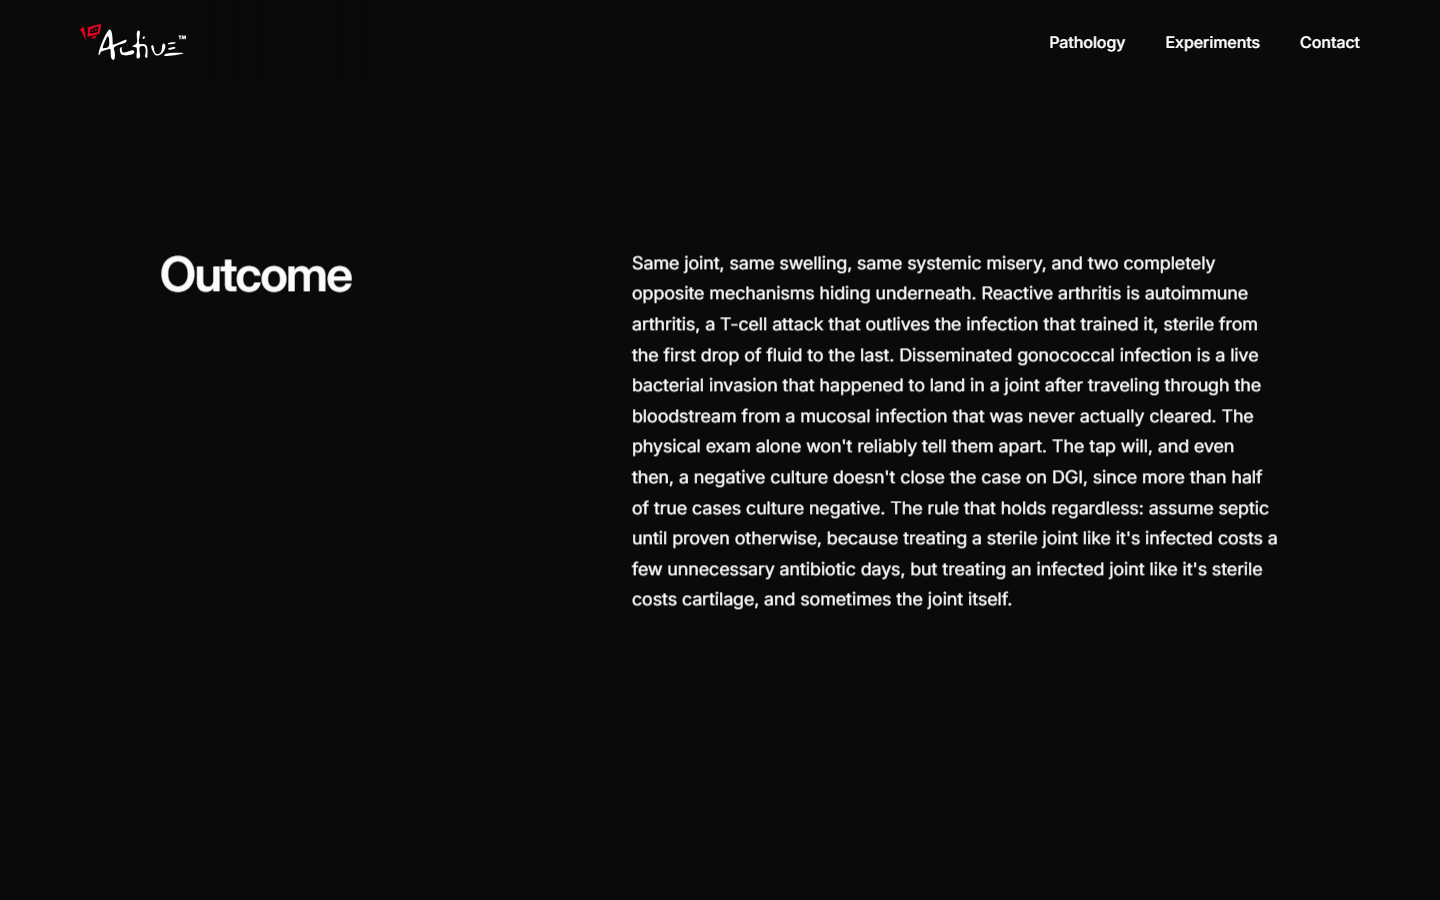
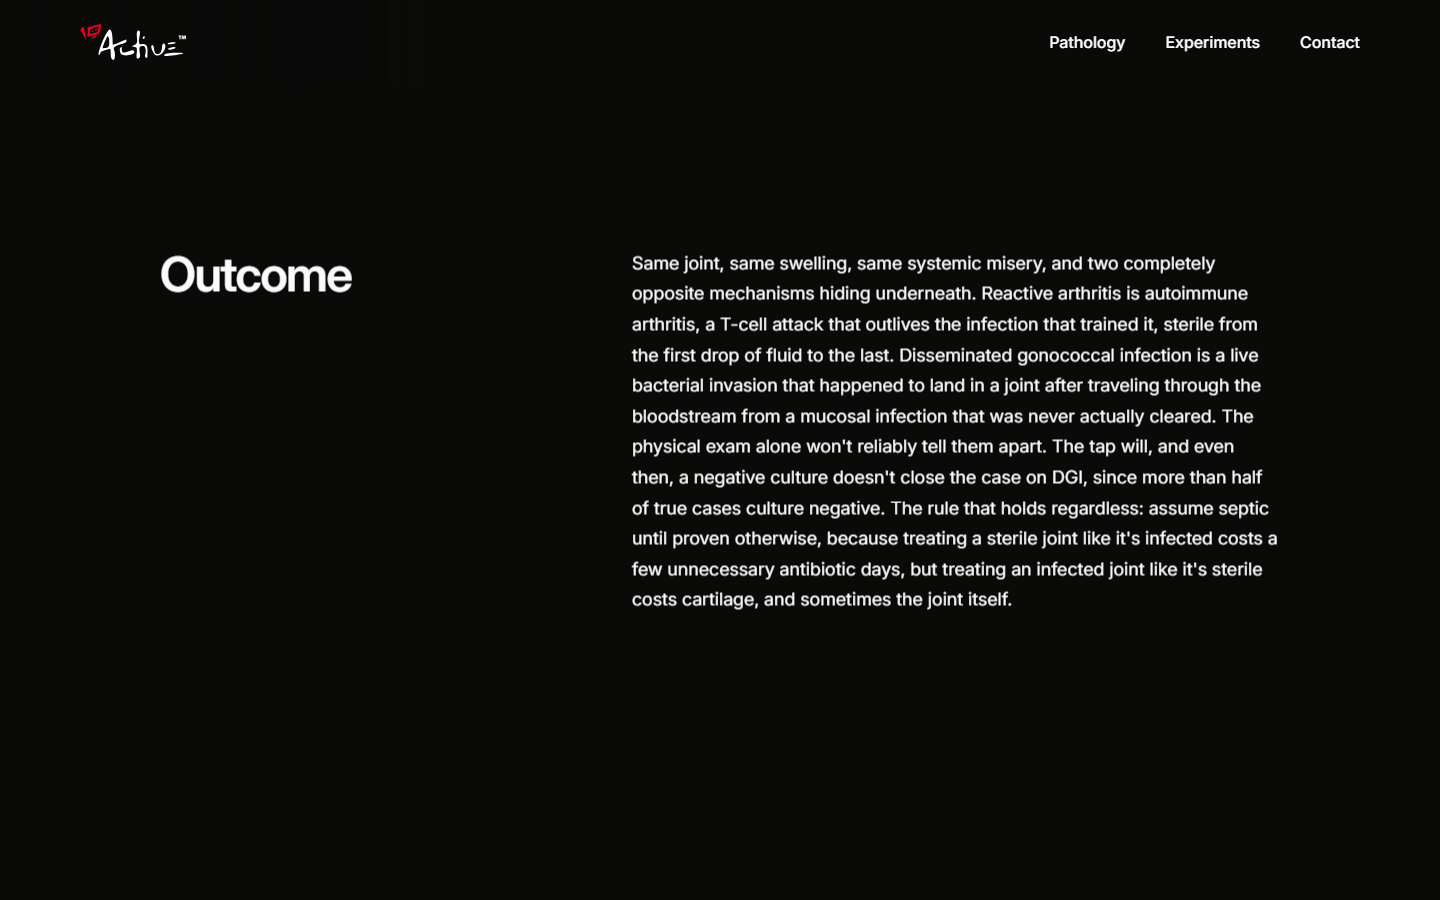
Genericize video play button into a shared widget (video-player.css/js)
The click-to-play button was inline per-page with hardcoded IDs. Pulled
it out into video-player.css/js following the same auto-wire-by-class
pattern as lightbox and compare-slider, so future articles just drop a
.video-figure block instead of re-deriving the pattern.

diff --git a/case-study-reactive-vs-septic-arthritis.html b/case-study-reactive-vs-septic-arthritis.html
@@ -11,6 +11,7 @@
 <link rel="stylesheet" href="global.css">
 <link rel="stylesheet" href="lightbox.css">
 <link rel="stylesheet" href="compare-slider.css">
+<link rel="stylesheet" href="video-player.css">
 <style>
 .page-top { padding-top: 140px; }
 .case-header { padding: 0 clamp(32px, 7vw, 80px) 80px; max-width: 1280px; margin: 0 auto; display: grid; grid-template-columns: 45% 1fr; gap: 80px; align-items: start; }
@@ -50,12 +51,7 @@
 .process-step > * + * { margin-top: var(--space-lg); }
 .full-image { padding: 0 clamp(32px, 7vw, 80px); max-width: 1280px; margin: 0 auto var(--space-3xl); width: 100%; }
 section.full-image .step-figure img { height: 92vh; width: 100%; object-fit: contain; background: #0a0a09; }
-section.full-image .step-figure video { height: 92vh; width: 100%; object-fit: contain; background: #0a0a09; border-radius: 16px; display: block; }
-.video-figure { position: relative; }
-.video-play-btn { position: absolute; top: 50%; left: 50%; transform: translate(-50%, -50%); width: 72px; height: 72px; border-radius: 50%; background: rgba(0,0,0,0.55); border: 1px solid rgba(255,255,255,0.25); display: flex; align-items: center; justify-content: center; cursor: pointer; padding: 0; transition: background 0.2s, opacity 0.2s, transform 0.2s; }
-.video-play-btn:hover { background: rgba(0,0,0,0.75); transform: translate(-50%, -50%) scale(1.05); }
-.video-play-btn svg { width: 28px; height: 28px; color: #fff; margin-left: 4px; }
-.video-play-btn.hidden { opacity: 0; pointer-events: none; }
+section.full-image .step-figure.video-figure video { height: 92vh; width: 100%; object-fit: contain; }
 .step-lookalikes { padding-top: var(--space-md); border-top: 1px solid rgba(255,255,255,0.08); }
 .step-lookalikes-label { font-size: 12px; font-weight: 600; letter-spacing: 0.06em; text-transform: uppercase; opacity: 0.4; margin-bottom: 10px; }
 .step-lookalikes ul { list-style: none; margin: 0; padding: 0; display: flex; flex-direction: column; gap: 6px; }
@@ -274,10 +270,10 @@ section.full-image .step-figure video { height: 92vh; width: 100%; object-fit: c
 
 <section class="full-image fade-in">
   <div class="step-figure video-figure">
-    <video id="raEndingVideo" playsinline preload="none" muted poster="images/case-studies/reactive-septic-knee-01.png">
+    <video playsinline preload="none" muted poster="images/case-studies/reactive-septic-knee-01.png">
       <source src="videos/reactive-septic-knee-ending.mp4" type="video/mp4">
     </video>
-    <button class="video-play-btn" id="raEndingPlayBtn" aria-label="Play video">
+    <button class="video-play-btn" aria-label="Play video">
       <svg viewBox="0 0 24 24" fill="currentColor"><path d="M6 4v16a1 1 0 0 0 1.524 .852l13 -8a1 1 0 0 0 0 -1.704l-13 -8a1 1 0 0 0 -1.524 .852z" /></svg>
     </button>
   </div>
@@ -330,19 +326,7 @@ section.full-image .step-figure video { height: 92vh; width: 100%; object-fit: c
 </script>
 <script src="lightbox.js"></script>
 <script src="compare-slider.js"></script>
-<script>
-(function() {
-  var video = document.getElementById('raEndingVideo');
-  var btn = document.getElementById('raEndingPlayBtn');
-  if (!video || !btn) return;
-  function toggle() { if (video.paused) { video.play(); } else { video.pause(); } }
-  btn.addEventListener('click', function(e) { e.stopPropagation(); toggle(); });
-  video.addEventListener('click', toggle);
-  video.addEventListener('play', function() { btn.classList.add('hidden'); });
-  video.addEventListener('pause', function() { btn.classList.remove('hidden'); });
-  video.addEventListener('ended', function() { btn.classList.remove('hidden'); });
-})();
-</script>
+<script src="video-player.js"></script>
 <script>if (/[\?&]edit\b/.test(location.search)) { var s=document.createElement('script'); s.src='admin.js'; document.body.appendChild(s); }</script>
 </body>
 </html>

diff --git a/video-player.js b/video-player.js
@@ -1,0 +1,33 @@
+/* Click-to-play video — finds every .video-figure on the page and wires it up.
+   Load this file on any page that has a video. No IDs needed; uses classes only.
+
+   HTML structure expected:
+   <div class="step-figure video-figure">
+     <video playsinline preload="none" muted poster="thumb.jpg">
+       <source src="videos/clip.mp4" type="video/mp4">
+     </video>
+     <button class="video-play-btn" aria-label="Play video">
+       <svg viewBox="0 0 24 24" fill="currentColor"><path d="M6 4v16a1 1 0 0 0 1.524 .852l13 -8a1 1 0 0 0 0 -1.704l-13 -8a1 1 0 0 0 -1.524 .852z" /></svg>
+     </button>
+   </div>
+*/
+(function () {
+  var figures = document.querySelectorAll('.video-figure');
+  figures.forEach(function (figure) {
+    if (figure.dataset.wired) return;
+    var video = figure.querySelector('video');
+    var btn = figure.querySelector('.video-play-btn');
+    if (!video || !btn) return;
+    figure.dataset.wired = '1';
+
+    function toggle() {
+      if (video.paused) { video.play(); } else { video.pause(); }
+    }
+
+    btn.addEventListener('click', function (e) { e.stopPropagation(); toggle(); });
+    video.addEventListener('click', toggle);
+    video.addEventListener('play', function () { btn.classList.add('hidden'); });
+    video.addEventListener('pause', function () { btn.classList.remove('hidden'); });
+    video.addEventListener('ended', function () { btn.classList.remove('hidden'); });
+  });
+})();

diff --git a/video-player.css b/video-player.css
@@ -1,0 +1,45 @@
+/* Click-to-play video — global widget for all case study pages.
+   Drop a .video-figure containing a <video poster="..."> and a .video-play-btn
+   anywhere on the page. video-player.js auto-activates it. No native <video controls>:
+   no browser gradient bar, no playback-speed/PiP/volume chrome. */
+.video-figure {
+  position: relative;
+}
+.video-figure video {
+  width: 100%;
+  height: auto;
+  display: block;
+  border-radius: 16px;
+  background: #0a0a09;
+}
+.video-play-btn {
+  position: absolute;
+  top: 50%;
+  left: 50%;
+  transform: translate(-50%, -50%);
+  width: 72px;
+  height: 72px;
+  border-radius: 50%;
+  background: rgba(0,0,0,0.55);
+  border: 1px solid rgba(255,255,255,0.25);
+  display: flex;
+  align-items: center;
+  justify-content: center;
+  cursor: pointer;
+  padding: 0;
+  transition: background 0.2s, opacity 0.2s, transform 0.2s;
+}
+.video-play-btn:hover {
+  background: rgba(0,0,0,0.75);
+  transform: translate(-50%, -50%) scale(1.05);
+}
+.video-play-btn svg {
+  width: 28px;
+  height: 28px;
+  color: #fff;
+  margin-left: 4px; /* optical centering for the play triangle */
+}
+.video-play-btn.hidden {
+  opacity: 0;
+  pointer-events: none;
+}
